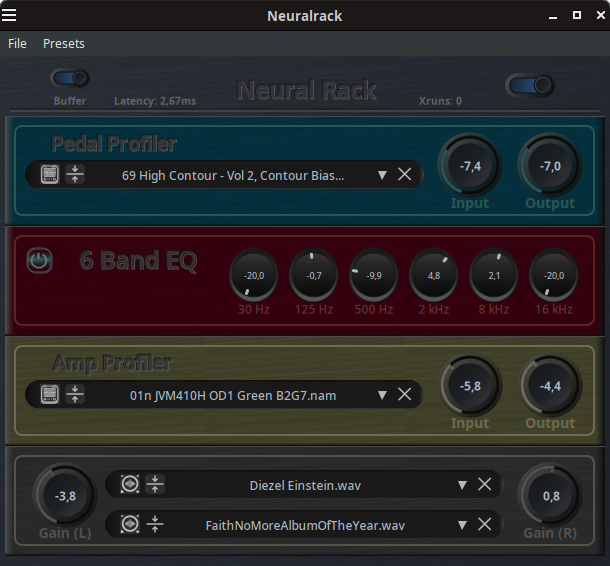
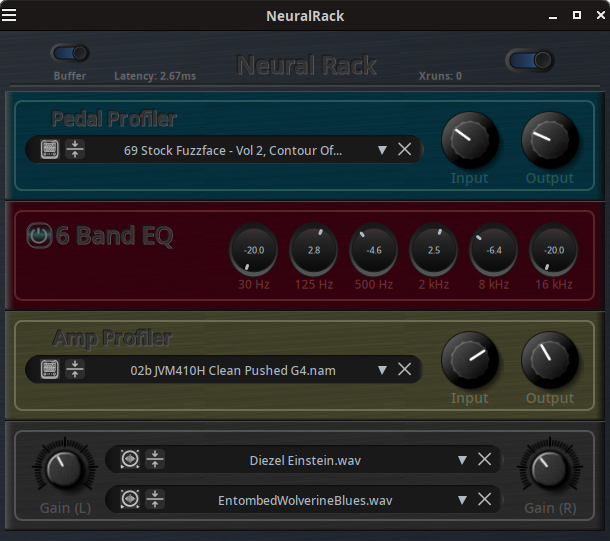
Prepare for release

diff --git a/NeuralRack/gui/widgets.cc b/NeuralRack/gui/widgets.cc
@@ -123,20 +123,20 @@ void draw_eq_window(void *w_, void* user_data) {
     widget_set_scale(w);
     cairo_set_font_size (w->crb, w->app->big_font+8);
 
-    cairo_move_to (w->crb, (w->scale.init_width*0.22)-tw-1, (42 * w->app->hdpi)-1);
+    cairo_move_to (w->crb, (w->scale.init_width*0.18)-tw-1, (42 * w->app->hdpi)-1);
     cairo_text_path(w->crb, w->label);
     cairo_set_line_width(w->crb, 1);
     cairo_set_source_rgba(w->crb, 0.1, 0.1, 0.1, 1);
     cairo_stroke (w->crb);
 
-    cairo_move_to (w->crb, (w->scale.init_width*0.22)-tw+1, (42 * w->app->hdpi)+1);
+    cairo_move_to (w->crb, (w->scale.init_width*0.18)-tw+1, (42 * w->app->hdpi)+1);
     cairo_text_path(w->crb, w->label);
     cairo_set_line_width(w->crb, 1);
     cairo_set_source_rgba(w->crb, 0.33, 0.33, 0.33, 1);
     cairo_stroke (w->crb);
 
     cairo_set_source_rgba(w->crb, 0.2, 0.2, 0.2, 1);
-    cairo_move_to (w->crb, (w->scale.init_width*0.22)-tw, 42 * w->app->hdpi);
+    cairo_move_to (w->crb, (w->scale.init_width*0.18)-tw, 42 * w->app->hdpi);
     cairo_show_text(w->crb, w->label);
     widget_reset_scale(w);
 
@@ -425,6 +425,31 @@ void knobShadowInset(cairo_t* const cr, int width, int height, int x, int y) {
     cairo_pattern_destroy (pat);
 }
 
+static void draw_image_knob(Widget_t *w, int width_t, int height_t) {
+    int width, height;
+    os_get_surface_size(w->image, &width, &height);
+    double x = (double)width_t/(double)height;
+    double y = (double)height/(double)width_t;
+    double knobstate = adj_get_state(w->adj_y);
+    int findex = (int)(((width/height)-1) * knobstate);
+    int posx = 0;
+    int posy = (height_t/2 - ((height*x)/2));
+    if (width_t > height_t) {
+        x = (double)height_t/(double)height;
+        y = (double)height/(double)height_t;
+        posx = (width_t/2 -((height*x)/2));
+        posy = 0;
+    }
+    cairo_save(w->crb);
+    cairo_scale(w->crb, x,x);
+    cairo_translate(w->crb, posx * ((1-x)/x), posy * ((1-x)/x));
+    cairo_set_source_surface (w->crb, w->image, -height*findex + posx, posy);
+    cairo_rectangle(w->crb, posx, posy, height, height);
+    cairo_fill(w->crb);
+    cairo_scale(w->crb, y,y);
+    cairo_restore(w->crb);
+}
+
 static void draw_my_knob(void *w_, void* user_data) {
     Widget_t *w = (Widget_t*)w_;    
 
@@ -456,75 +481,78 @@ static void draw_my_knob(void *w_, void* user_data) {
 
     /** draw the knob **/
     cairo_push_group (w->crb);
-
-    cairo_arc(w->crb,knobx1, knoby1, knob_x/2.1, 0, 2 * M_PI );
-    knobShadowOutset(w->crb, width, height, 0, 0);
-    cairo_stroke_preserve (w->crb);
-    cairo_new_path (w->crb);
-
-    cairo_arc(w->crb,knobx1, knoby1, knob_x/2.4, 0, 2 * M_PI );
-    knobShadowOutset(w->crb, width, height, 0, 0);
-    cairo_set_line_width(w->crb,knobx1/10);
-    cairo_set_source_rgba(w->crb, 0.05, 0.05, 0.05, 1);
-    cairo_stroke_preserve (w->crb);
-    cairo_new_path (w->crb);
-
-    cairo_arc(w->crb,knobx1, knoby1, knob_x/3.1, 0, 2 * M_PI );
-    use_bg_color_scheme(w, get_color_state(w));
-    cairo_fill_preserve (w->crb);
-    knobShadowInset(w->crb, width, height, 0, 0);
-    cairo_new_path (w->crb);
-
-    /** create a rotating pointer on the kob**/
-    cairo_set_line_cap(w->crb, CAIRO_LINE_CAP_ROUND); 
-    cairo_set_line_join(w->crb, CAIRO_LINE_JOIN_BEVEL);
-    cairo_move_to(w->crb, radius_x, radius_y);
-    cairo_line_to(w->crb,lengh_x,lengh_y);
-    cairo_set_line_width(w->crb,knobx1/10);
-    use_fg_color_scheme(w, NORMAL_);
-    cairo_stroke_preserve(w->crb);
-    cairo_new_path (w->crb);
-
-    /** create a indicator ring around the knob **/
-    const double add_angle = 90 * (M_PI / 180.);
-    cairo_new_sub_path(w->crb);
-    use_fg_color_scheme(w, NORMAL_);
-    cairo_set_line_width(w->crb,3/w->scale.ascale);
-    cairo_arc (w->crb, knobx1, knoby1, knob_x/2.4,
-            add_angle + scale_zero, add_angle + angle);
-    cairo_stroke(w->crb);
-
-    /** show value on the kob**/
-    use_text_color_scheme(w, get_color_state(w));
     cairo_text_extents_t extents;
-    cairo_select_font_face (w->crb, "Sans", CAIRO_FONT_SLANT_NORMAL,
-                               CAIRO_FONT_WEIGHT_BOLD);
-    cairo_set_font_size (w->crb, w->app->normal_font/w->scale.ascale);
-    char s[17];
-    char sa[17];
-    int o = 0;
-    float value = adj_get_value(w->adj);
-    float v = copysign(1, (int)(value * 10));
-    value = copysign(value, v);
-    if (fabs(w->adj->step)>0.99) {
-        snprintf(s, 16,"%d",  (int) value);
-        o = 4;
-    } else if (fabs(w->adj->step)<0.09) {
-        snprintf(s, 16, "%.2f", value);
-        o = 1;
+    if (w->image) {
+        draw_image_knob(w, width, height);
     } else {
-        snprintf(s, 16, "%.1f", value);
+
+        cairo_arc(w->crb,knobx1, knoby1, knob_x/2.1, 0, 2 * M_PI );
+        knobShadowOutset(w->crb, width, height, 0, 0);
+        cairo_stroke_preserve (w->crb);
+        cairo_new_path (w->crb);
+
+        cairo_arc(w->crb,knobx1, knoby1, knob_x/2.4, 0, 2 * M_PI );
+        knobShadowOutset(w->crb, width, height, 0, 0);
+        cairo_set_line_width(w->crb,knobx1/10);
+        cairo_set_source_rgba(w->crb, 0.05, 0.05, 0.05, 1);
+        cairo_stroke_preserve (w->crb);
+        cairo_new_path (w->crb);
+
+        cairo_arc(w->crb,knobx1, knoby1, knob_x/3.1, 0, 2 * M_PI );
+        use_bg_color_scheme(w, get_color_state(w));
+        cairo_fill_preserve (w->crb);
+        knobShadowInset(w->crb, width, height, 0, 0);
+        cairo_new_path (w->crb);
+
+        /** create a rotating pointer on the kob**/
+        cairo_set_line_cap(w->crb, CAIRO_LINE_CAP_ROUND); 
+        cairo_set_line_join(w->crb, CAIRO_LINE_JOIN_BEVEL);
+        cairo_move_to(w->crb, radius_x, radius_y);
+        cairo_line_to(w->crb,lengh_x,lengh_y);
+        cairo_set_line_width(w->crb,knobx1/10);
+        use_fg_color_scheme(w, NORMAL_);
+        cairo_stroke_preserve(w->crb);
+        cairo_new_path (w->crb);
+
+        /** create a indicator ring around the knob **/
+        const double add_angle = 90 * (M_PI / 180.);
+        cairo_new_sub_path(w->crb);
+        use_fg_color_scheme(w, NORMAL_);
+        cairo_set_line_width(w->crb,3/w->scale.ascale);
+        cairo_arc (w->crb, knobx1, knoby1, knob_x/2.4,
+                add_angle + scale_zero, add_angle + angle);
+        cairo_stroke(w->crb);
+        /** show value on the kob**/
+        use_text_color_scheme(w, get_color_state(w));
+        cairo_select_font_face (w->crb, "Sans", CAIRO_FONT_SLANT_NORMAL,
+                                   CAIRO_FONT_WEIGHT_BOLD);
+        cairo_set_font_size (w->crb, w->app->normal_font/w->scale.ascale);
+        char s[17];
+        char sa[17];
+        int o = 0;
+        float value = adj_get_value(w->adj);
+        float v = copysign(1, (int)(value * 10));
+        value = copysign(value, v);
+        if (fabs(w->adj->step)>0.99) {
+            snprintf(s, 16,"%d",  (int) value);
+            o = 4;
+        } else if (fabs(w->adj->step)<0.09) {
+            snprintf(s, 16, "%.2f", value);
+            o = 1;
+        } else {
+            snprintf(s, 16, "%.1f", value);
+        }
+        snprintf(sa, strlen(s),"%s",  "000000000000000");
+        cairo_text_extents(w->crb, sa, &extents);
+        int wx = extents.width * 0.5;
+        cairo_text_extents(w->crb, s, &extents);
+        cairo_move_to (w->crb, knobx1 - wx - o, knoby1+extents.height/2);
+        cairo_show_text(w->crb, s);
+        cairo_new_path (w->crb);
     }
-    snprintf(sa, strlen(s),"%s",  "000000000000000");
-    cairo_text_extents(w->crb, sa, &extents);
-    int wx = extents.width * 0.5;
-    cairo_text_extents(w->crb, s, &extents);
-    cairo_move_to (w->crb, knobx1 - wx - o, knoby1+extents.height/2);
-    cairo_show_text(w->crb, s);
-    cairo_new_path (w->crb);
 
     /** show label below the knob**/
-    use_fg_color_scheme(w, NORMAL_);
+    use_fg_color_scheme(w, get_color_state(w));
     cairo_set_font_size (w->crb, (w->app->normal_font+2)/w->scale.ascale);
     cairo_text_extents(w->crb,w->label , &extents);
     cairo_move_to (w->crb, (width*0.5)-(extents.width/2), height + (height * 0.15)-(extents.height*0.1));

diff --git a/NeuralRack/gui/NeuralRack.c b/NeuralRack/gui/NeuralRack.c
@@ -32,7 +32,7 @@ void set_custom_theme(X11_UI *ui) {
 
     ui->main.color_scheme->prelight = (Colors) {
          /* cairo    / r  / g  / b  / a  /  */
-        .fg =       { 1.000, 0.000, 1.000, 1.000},
+        .fg =       { 0.600, 0.600, 0.600, 1.000},
         .bg =       { 0.250, 0.250, 0.250, 1.000},
         .base =     { 0.300, 0.300, 0.300, 1.000},
         .text =     { 1.000, 1.000, 1.000, 1.000},
@@ -193,14 +193,18 @@ void plugin_create_controller_widgets(X11_UI *ui, const char * plugin_uri) {
     set_widget_color(ui->elem[0], (Color_state)0, (Color_mod)0, 0.153, 0.341, 0.341,1.0);
     ui->elem[0]->func.expose_callback = draw_elem;
     ui->widget[0] = add_lv2_knob (ui->widget[0], ui->elem[0], 2, "Input", ui, 430, 15, 70, 80);
+    widget_get_png(ui->widget[0], LDVAR(knob1_png));
     set_adjustment(ui->widget[0]->adj, 0.0, 0.0, -20.0, 20.0, 0.2, CL_CONTINUOS);
     set_widget_color(ui->widget[0], (Color_state)0, (Color_mod)0, 0.153, 0.341, 0.341,1.0);
     set_widget_color(ui->widget[0], (Color_state)0, (Color_mod)3, 0.686, 0.729, 0.773, 1.0);
+    set_widget_color(ui->widget[0], (Color_state)1, (Color_mod)0, 0.253, 0.441, 0.441,1.0);
 
     ui->widget[1] = add_lv2_knob (ui->widget[1], ui->elem[0], 3, "Output ", ui, 510, 15, 70, 80);
+    widget_get_png(ui->widget[1], LDVAR(knob1_png));
     set_adjustment(ui->widget[1]->adj, 0.0, 0.0, -20.0, 20.0, 0.2, CL_CONTINUOS);
     set_widget_color(ui->widget[1], (Color_state)0, (Color_mod)0, 0.153, 0.341, 0.341,1.0);
     set_widget_color(ui->widget[1], (Color_state)0, (Color_mod)3, 0.686, 0.729, 0.773, 1.0);
+    set_widget_color(ui->widget[1], (Color_state)1, (Color_mod)0, 0.253, 0.441, 0.441,1.0);
 
 
     ps->ma.fbutton = add_lv2_button(ps->ma.fbutton, ui->elem[0], "", ui, 365, 44, 22, 30);
@@ -255,14 +259,18 @@ void plugin_create_controller_widgets(X11_UI *ui, const char * plugin_uri) {
     set_widget_color(ui->elem[1], (Color_state)0, (Color_mod)0, 0.422, 0.422, 0.322,1.0);
     ui->elem[1]->func.expose_callback = draw_elem;
     ui->widget[7] = add_lv2_knob (ui->widget[7], ui->elem[1], 11, "Input", ui, 430, 15, 70, 80);
+    widget_get_png(ui->widget[7], LDVAR(knob1_png));
     set_adjustment(ui->widget[7]->adj, 0.0, 0.0, -20.0, 20.0, 0.2, CL_CONTINUOS);
     set_widget_color(ui->widget[7], (Color_state)0, (Color_mod)0, 0.422, 0.422, 0.322,1.0);
     set_widget_color(ui->widget[7], (Color_state)0, (Color_mod)3, 0.686, 0.729, 0.773, 1.0);
+    set_widget_color(ui->widget[7], (Color_state)1, (Color_mod)0, 0.522, 0.522, 0.422,1.0);
 
     ui->widget[2] = add_lv2_knob (ui->widget[2], ui->elem[1], 4, "Output", ui, 510, 15, 70, 80);
+    widget_get_png(ui->widget[2], LDVAR(knob1_png));
     set_adjustment(ui->widget[2]->adj, 0.0, 0.0, -20.0, 20.0, 0.2, CL_CONTINUOS);
     set_widget_color(ui->widget[2], (Color_state)0, (Color_mod)0, 0.422, 0.422, 0.322,1.0);
     set_widget_color(ui->widget[2], (Color_state)0, (Color_mod)3, 0.686, 0.729, 0.773, 1.0);
+    set_widget_color(ui->widget[2], (Color_state)1, (Color_mod)0, 0.522, 0.522, 0.422,1.0);
 
     ps->mb.fbutton = add_lv2_button(ps->mb.fbutton, ui->elem[1], "", ui, 365, 44, 22, 30);
     ps->mb.fbutton->parent_struct = (void*)&ps->mb;
@@ -288,9 +296,11 @@ void plugin_create_controller_widgets(X11_UI *ui, const char * plugin_uri) {
     ui->elem[2]->func.expose_callback = draw_ir_elem;
 
     ui->widget[3] = add_lv2_knob (ui->widget[3], ui->elem[2], 7, "Gain (L)", ui, 25, 15, 70, 80);
+    widget_get_png(ui->widget[3], LDVAR(knob2_png));
     set_adjustment(ui->widget[3]->adj, 0.0, 0.0, -20.0, 20.0, 0.2, CL_CONTINUOS);
     set_widget_color(ui->widget[3], (Color_state)0, (Color_mod)0, 0.322, 0.322, 0.322,1.0);
     set_widget_color(ui->widget[3], (Color_state)0, (Color_mod)3, 0.686, 0.729, 0.773, 1.0);
+    set_widget_color(ui->widget[3], (Color_state)1, (Color_mod)0, 0.422, 0.422, 0.422,1.0);
 
     ps->ir.fbutton = add_lv2_button(ps->ir.fbutton, ui->elem[2], "", ui, 445, 24, 22, 30);
     ps->ir.fbutton->parent_struct = (void*)&ps->ir;
@@ -308,9 +318,11 @@ void plugin_create_controller_widgets(X11_UI *ui, const char * plugin_uri) {
 
 //IR 1
     ui->widget[4] = add_lv2_knob (ui->widget[4], ui->elem[2], 8, "Gain (R)", ui, 510, 15, 70, 80);
+    widget_get_png(ui->widget[4], LDVAR(knob2_png));
     set_adjustment(ui->widget[4]->adj, 0.0, 0.0, -20.0, 20.0, 0.2, CL_CONTINUOS);
     set_widget_color(ui->widget[4], (Color_state)0, (Color_mod)0, 0.322, 0.322, 0.322,1.0);
     set_widget_color(ui->widget[4], (Color_state)0, (Color_mod)3, 0.686, 0.729, 0.773, 1.0);
+    set_widget_color(ui->widget[4], (Color_state)1, (Color_mod)0, 0.422, 0.422, 0.422,1.0);
 
     ps->ir1.fbutton = add_lv2_button(ps->ir1.fbutton, ui->elem[2], "", ui, 445, 64, 22, 30);
     ps->ir1.fbutton->parent_struct = (void*)&ps->ir1;

diff --git a/NeuralRack/standalone/NeuralRack.cc b/NeuralRack/standalone/NeuralRack.cc
@@ -57,7 +57,7 @@ public:
         set_custom_theme(ui);
         ui->win = create_window(&ui->main, os_get_root_window(&ui->main, IS_WINDOW), 0, 0, 610, 510);
         widget_set_title(ui->win, "NeuralRack");
-        widget_set_icon_from_png(ui->win,LDVAR(neuraldir_png));
+        widget_set_icon_from_png(ui->win,LDVAR(NeuralRack_png));
         ui->win->parent_struct = ui;
         plugin_create_controller_widgets(ui,"standalone");
         widget_show_all(ui->win);
@@ -427,7 +427,7 @@ private:
     // timeout loop to check output ports from engine
     void checkEngine() {
         // come back later
-        if (processCounter < 2) {
+        if (processCounter < 3) {
             processCounter++;
             return;
         }

diff --git a/NeuralRack/engine/NeuralModel.cpp b/NeuralRack/engine/NeuralModel.cpp
@@ -39,7 +39,7 @@ inline void NeuralModel::init(unsigned int sample_rate)
     clearState();
     isInited = true;
     ramp = 0.0;
-    ramp_step = 512.0;
+    ramp_step = 256.0;
     ramp_down = ramp_step;
     ramp_div = 1.0/ramp_step;
     loadModel();

diff --git a/NeuralRack/engine/RtNeuralModel.cpp b/NeuralRack/engine/RtNeuralModel.cpp
@@ -36,7 +36,7 @@ inline void RtNeuralModel::init(unsigned int sample_rate)
     clearState();
     isInited = true;
     ramp = 0.0;
-    ramp_step = 512;
+    ramp_step = 256.0;
     ramp_down = ramp_step;
     ramp_div = 1.0/ramp_step;
     loadModel();
